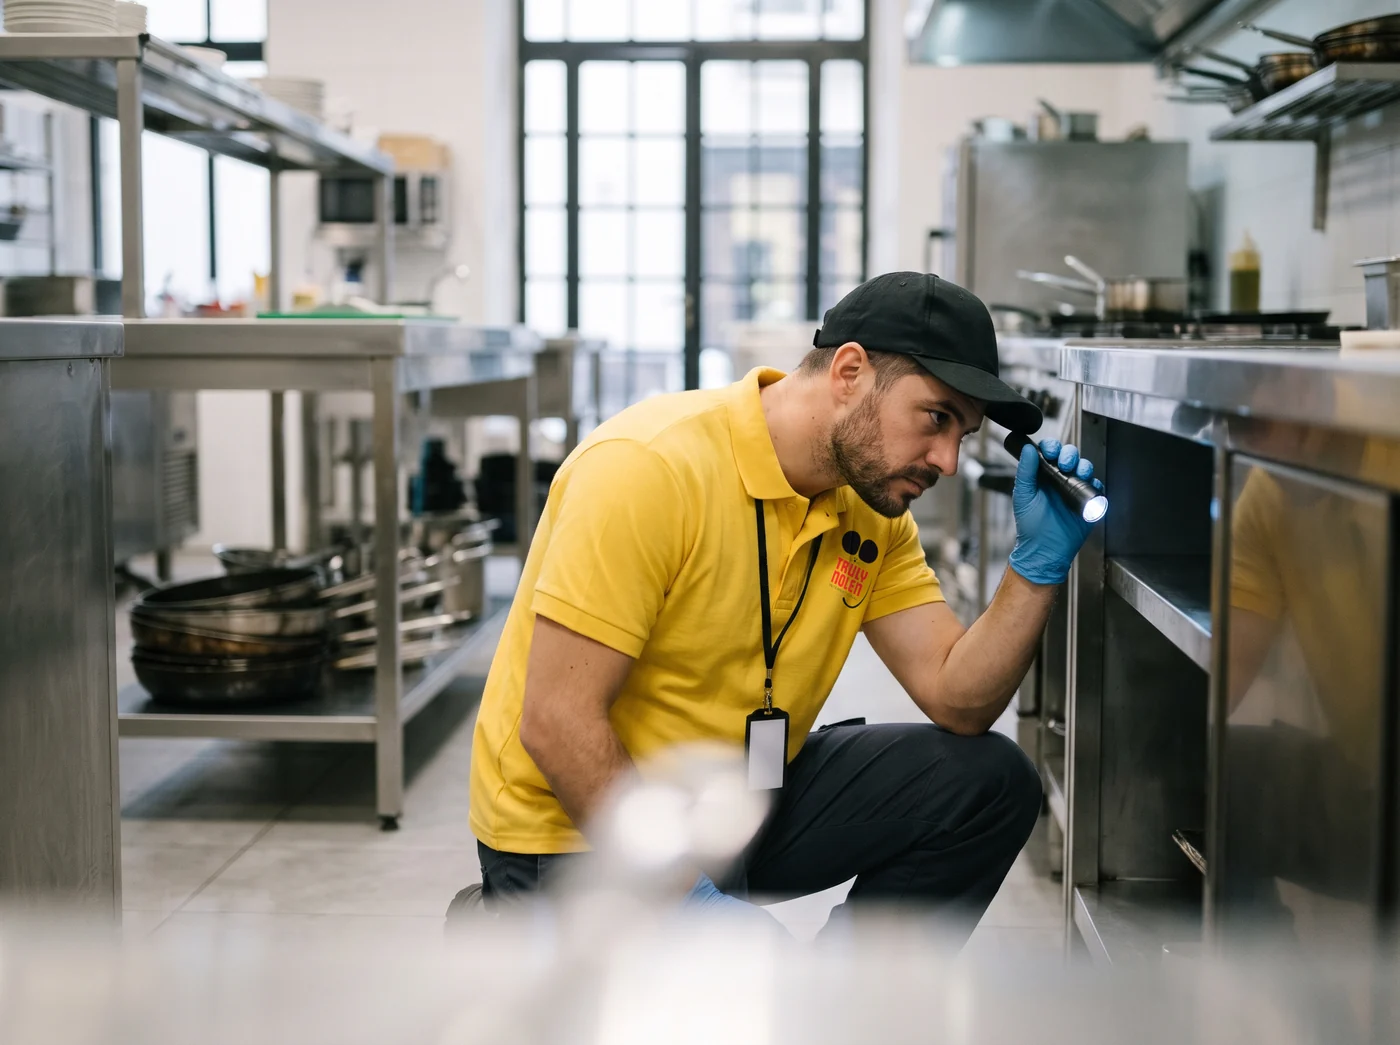
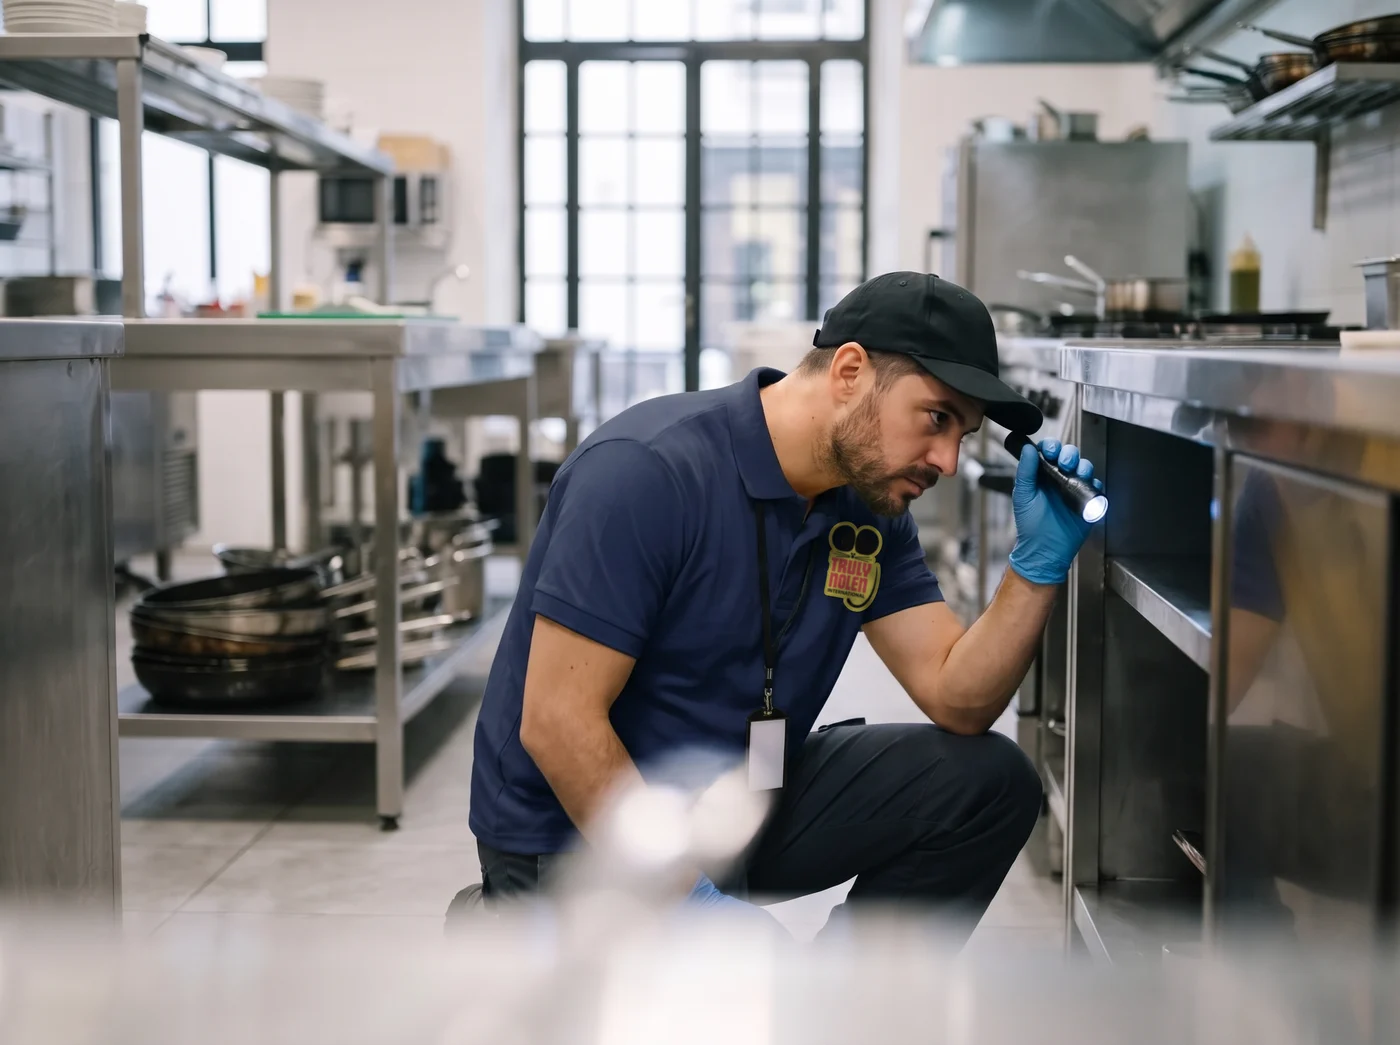
Técnico de comercio con el uniforme nuevo de Truly: polo azul marino y emblema real bordado en el pecho

Changed region(s): [[0.3071, 0.3368, 0.6757, 0.8268], [0.86, 0.4287, 0.9214, 0.6124], [0.7371, 0.4287, 0.7679, 0.4593]]

diff --git a/oficinas/argentina/index.html b/oficinas/argentina/index.html
@@ -772,7 +772,7 @@ body.country-site[data-oficina] .history .history-car-link{display:block}
 <section id="comercial" class="section g g-comercial">
 <header class="g-cab"><p class="g-ey">Comercio e industria</p><h2>Control de plagas para su local.</h2><p class="g-intro">Bares, restaurantes, hoteles, supermercados y consorcios, con los registros que le piden.</p></header>
 <div class="g-com-grid">
-<a class="g-com-foto" href="/truly-nolen-argentina/oficinas/argentina/servicios/comercios/"><img src="/truly-nolen-argentina/oficinas/argentina/assets/ar-operacion-tecnico.webp?v=540619c4fb" alt="" loading="lazy"/>
+<a class="g-com-foto" href="/truly-nolen-argentina/oficinas/argentina/servicios/comercios/"><img src="/truly-nolen-argentina/oficinas/argentina/assets/ar-operacion-tecnico.webp?v=387d59864b" alt="" loading="lazy"/>
 <span><b>Visitamos en el horario que no le corte el servicio.</b><em>Conozca el servicio para comercios →</em></span></a>
 <div class="g-sectores">
 <a class="g-sector" href="/truly-nolen-argentina/oficinas/argentina/servicios/comercios/#sector-salud"><span><h3>Salud</h3><p>Hospitales, clínicas, laboratorios y centros de rehabilitación.</p></span><span aria-hidden="true">→</span></a>
